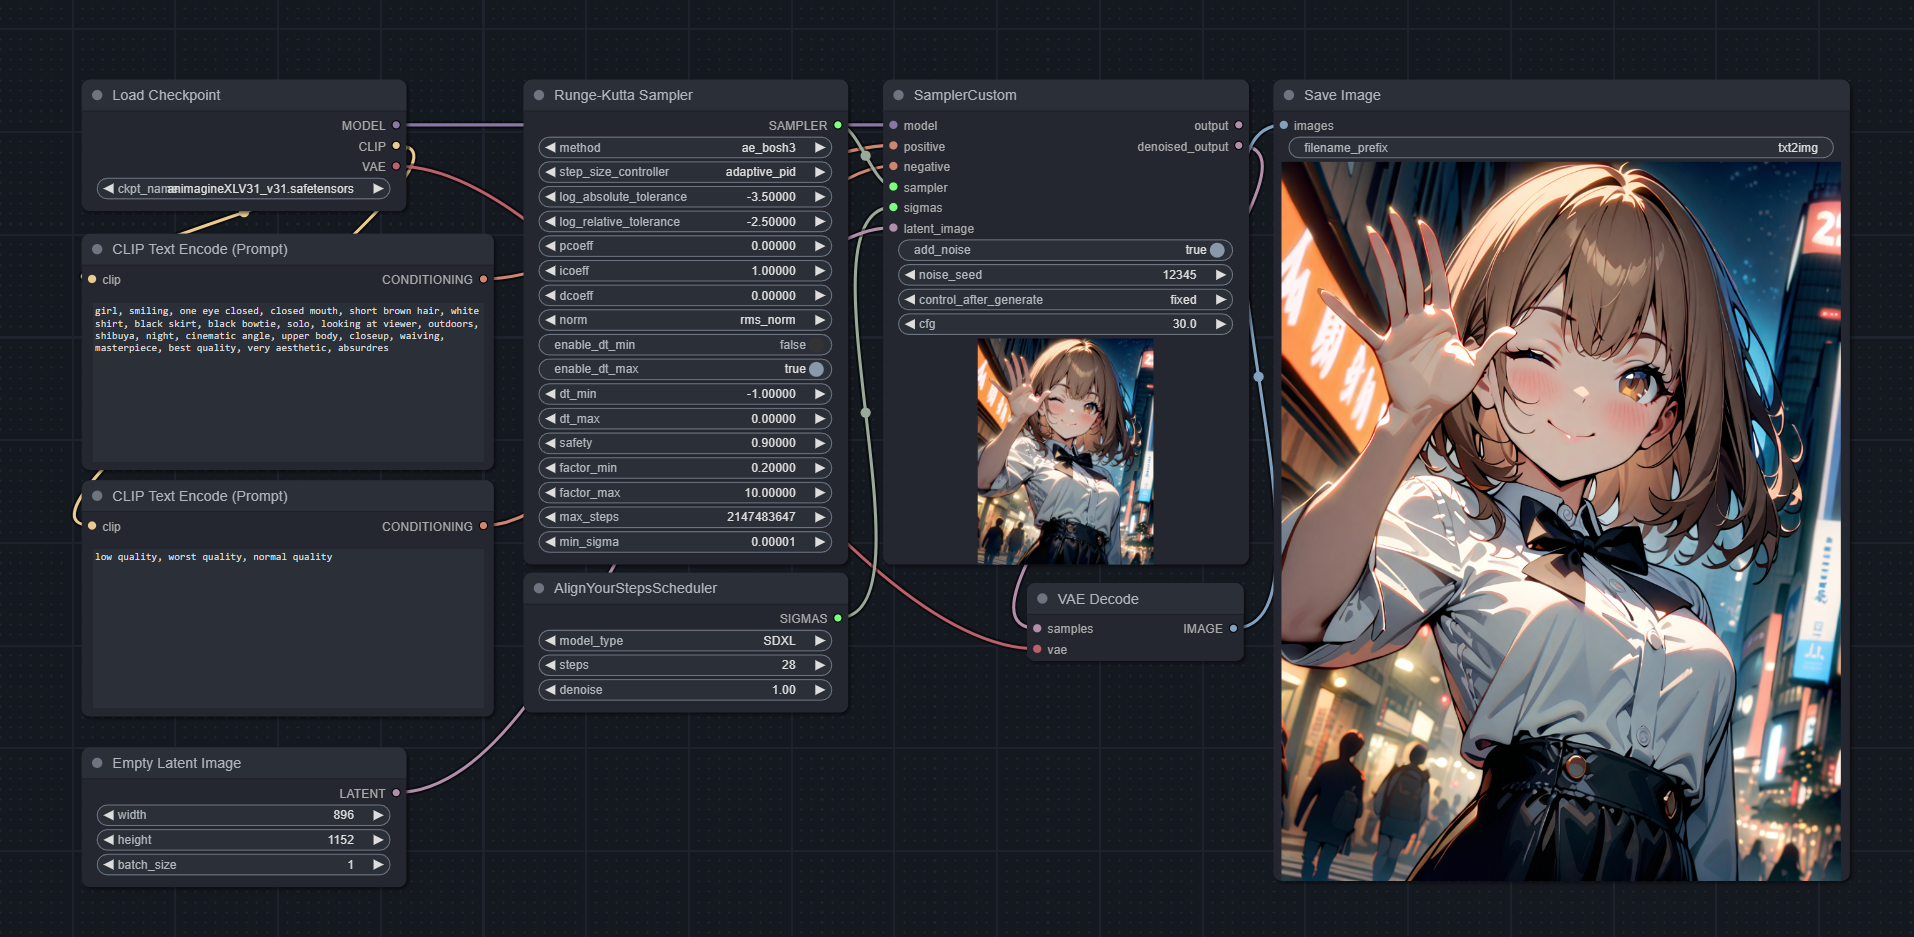
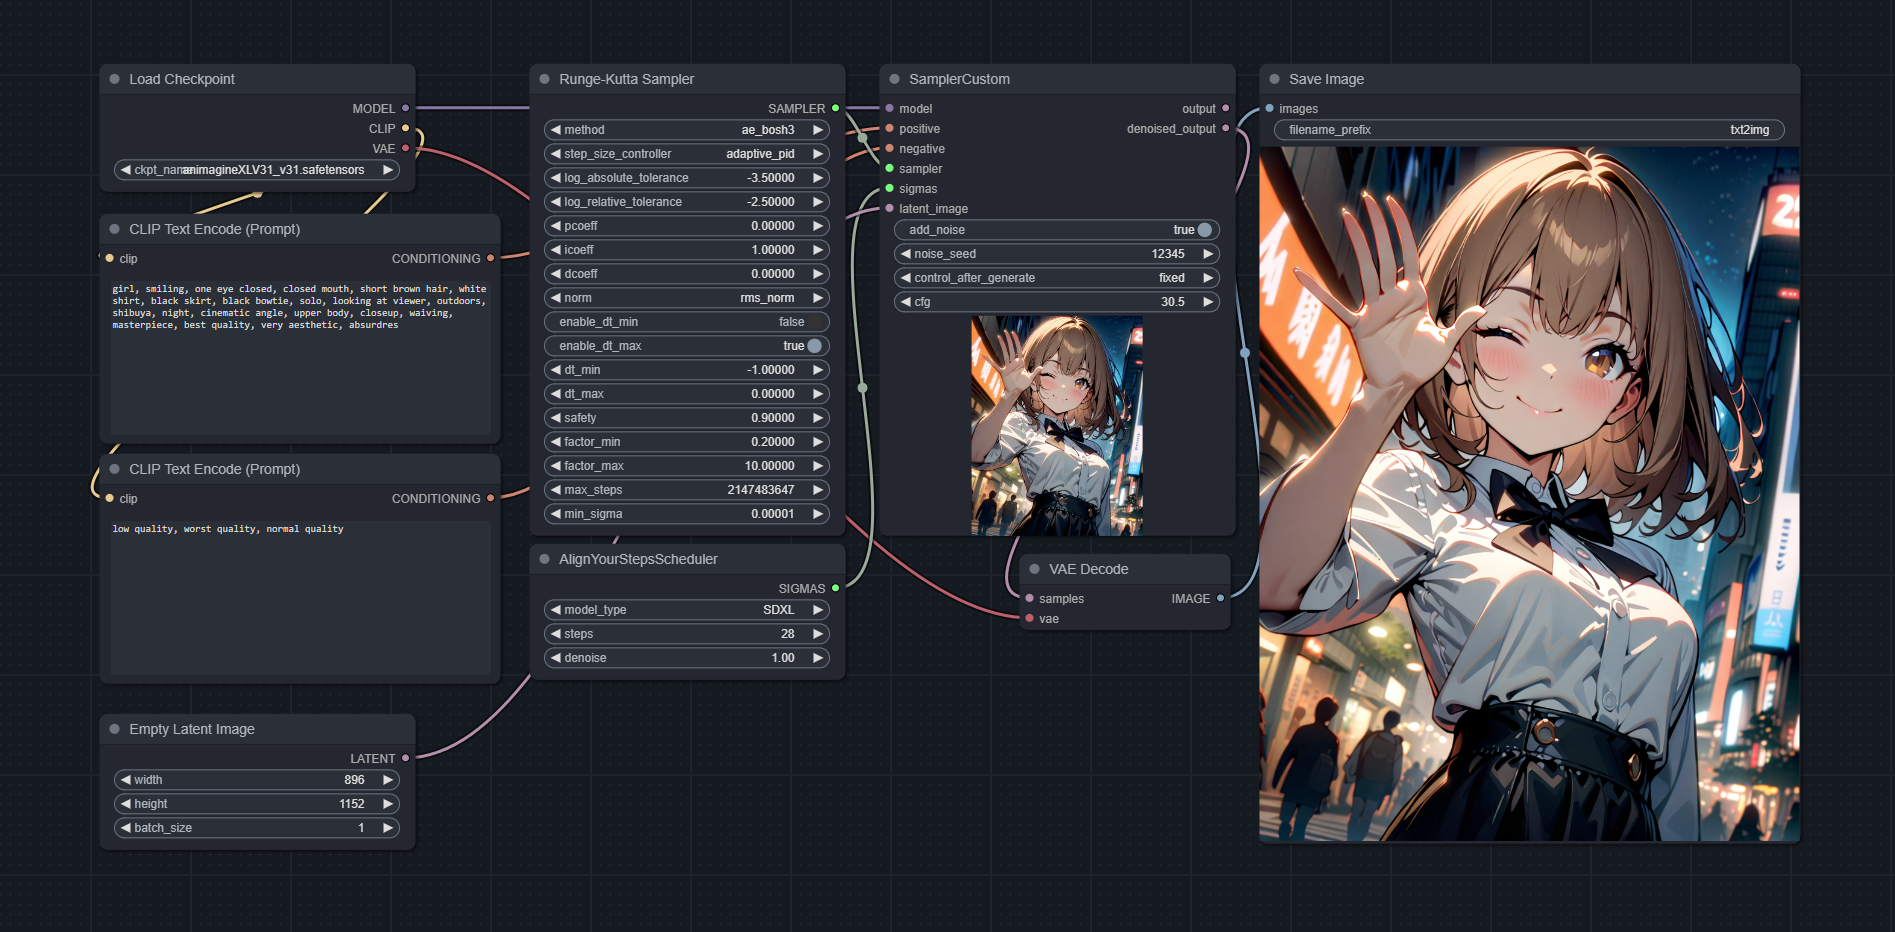
Updated workflow

Changed region(s): [[0.0311, 0.0622, 0.9652, 0.9646]]

diff --git a/README.md b/README.md
@@ -169,3 +169,4 @@ Runge-Kutta methods generally have less discretization error than standard diffu
   - No fixed step size controllers are available for wrapped scipy methods. 
   - These methods do not support parallel IVP solve, meaning the batch elements are processed sequentially.
   - Implicit solvers from `scipy.integrate` do not work for sampling diffusion models as the root finding step takes too long, so the implementation for them were skipped.
+- The refactors from this update can cause the results to differ from the previous version. This is due to changes in floating point order operations and casting.
